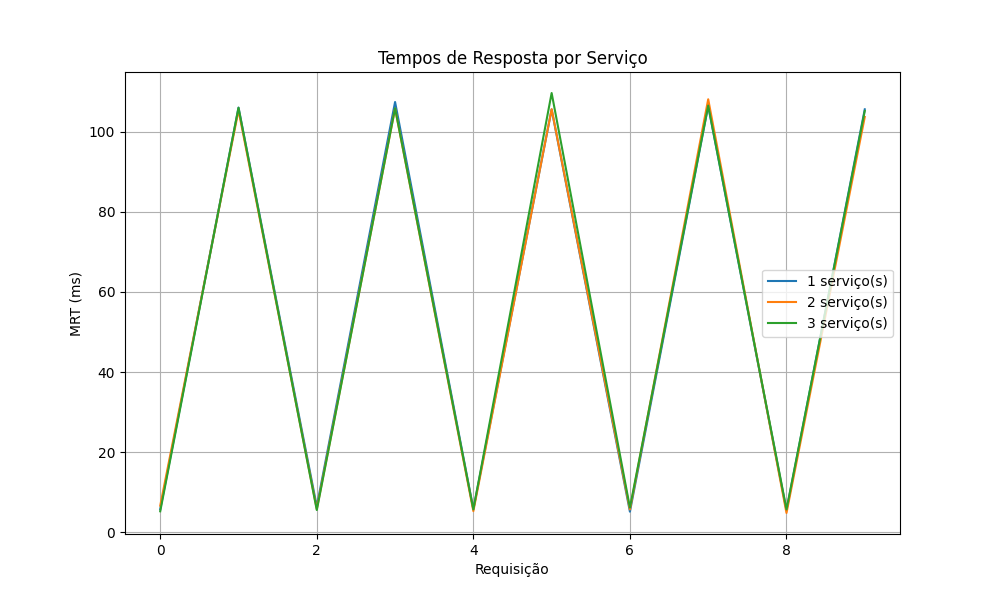
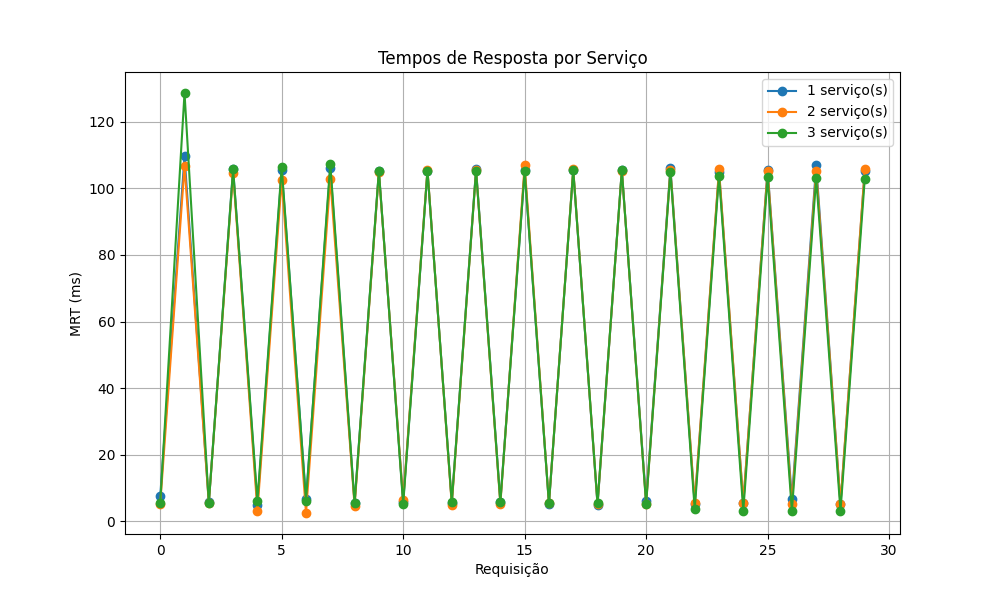
...

diff --git a/pasid-validator/src/service_proxy.py b/pasid-validator/src/service_proxy.py
@@ -6,7 +6,7 @@ from src.abstract_proxy import AbstractProxy
 from src.service_ia import IA
 
 class ServiceProxy(AbstractProxy):
-    def __init__(self, porta_escuta: int, tempo_service_ms: float, tamanho_max_fila: int = 30,  modelo_ai: str = "llama3.2"):
+    def __init__(self, porta_escuta: int, tempo_service_ms: float, tamanho_max_fila: int = 90, modelo_ai: str = "distilbert"):
         super().__init__()  
         self.porta_escuta = porta_escuta
         self.tempo_servico_ms = tempo_service_ms
@@ -15,9 +15,8 @@ class ServiceProxy(AbstractProxy):
         self.servico_ia = IA(modelo_ai=modelo_ai)
 
     def iniciar(self):
-        """Inicia o servidor para escutar conexões de clientes."""
         servidor = socket.socket(socket.AF_INET, socket.SOCK_STREAM)
-        servidor.setsockopt(socket.SOL_SOCKET, socket.SO_REUSEADDR, 1)  # Permite reusar endereço
+        servidor.setsockopt(socket.SOL_SOCKET, socket.SO_REUSEADDR, 1)
         try:
             servidor.bind(('0.0.0.0', self.porta_escuta))
             servidor.listen()
@@ -28,7 +27,7 @@ class ServiceProxy(AbstractProxy):
                 threading.Thread(
                     target=self.tratar_cliente, 
                     args=(socket_cliente,),
-                    daemon=True  # Thread como daemon para encerrar com o programa
+                    daemon=True
                 ).start()
         except Exception as e:
             print(f"Erro no servidor: {e}")
@@ -36,7 +35,6 @@ class ServiceProxy(AbstractProxy):
             servidor.close()
 
     def _extrair_ultimo_timestamp(self, mensagem: str) -> int:
-        """Extrai o último timestamp da mensagem formatada."""
         partes = mensagem.split(';')
         try:
             return int(partes[-2].strip()) if len(partes) >= 2 else 0
@@ -44,11 +42,9 @@ class ServiceProxy(AbstractProxy):
             return 0
 
     def adicionar_timestamp_mensagem_chega(self, mensagem: str) -> str:
-        """Registra o tempo de chegada da mensagem e calcula o tempo desde o último registro."""
         try:
             if not mensagem:
                 return mensagem
-                
             time_now = int(time.time() * 1000)
             ultimo_timestamp = self._extrair_ultimo_timestamp(mensagem)
             diferenca = time_now - ultimo_timestamp if ultimo_timestamp > 0 else 0
@@ -58,11 +54,9 @@ class ServiceProxy(AbstractProxy):
             return mensagem
 
     def adicionar_timestamp_mensagem_sai(self, mensagem: str) -> str:
-        """Registra o tempo de saída da mensagem e calcula o tempo de processamento."""
         try:
             if not mensagem:
                 return mensagem
-                
             time_now = int(time.time() * 1000)
             partes = mensagem.split(';')
             if len(partes) >= 2:
@@ -75,39 +69,38 @@ class ServiceProxy(AbstractProxy):
             return mensagem
 
     def tratar_cliente(self, socket_cliente: socket.socket):
-        """Processa a requisição do cliente e envia a resposta."""
         try:
             dados = socket_cliente.recv(1024).decode()
             if not dados:
                 return
 
             print(f"Mensagem recebida: {dados}")
-            
+
             if dados == "ping":
                 status = "ocupado" if self.fila.full() else "livre"
                 ocupacao = self.fila.qsize() / self.tamanho_max_fila
                 print(f"Status da fila: {status} ({ocupacao:.1%} de ocupação)")
                 socket_cliente.sendall(status.encode())
                 return
-                
+
             if self.fila.full():
                 print("Fila cheia - mensagem descartada")
                 socket_cliente.sendall("ocupado".encode())
                 return
-                
+
             self.fila.put(dados)
-            
-            # Processa a mensagem
+
             dados = self.adicionar_timestamp_mensagem_chega(dados)
-            print(f"Processando mensagem: {dados}")
+            print(f"Processando com IA: {dados}")
 
-            time.sleep(self.tempo_servico_ms / 1000.0)
+            # processa com IA em vez de sleep
+            resposta_ia = self.servico_ia.process(dados)
 
-            dados = self.adicionar_timestamp_mensagem_sai(dados)
-            print(f"Enviando resposta: {dados}")
+            resposta_ia = self.adicionar_timestamp_mensagem_sai(resposta_ia)
+            print(f"Enviando resposta IA: {resposta_ia}")
 
-            socket_cliente.sendall(dados.encode())
-            
+            socket_cliente.sendall(resposta_ia.encode())
+
         except Exception as e:
             print(f"Erro ao tratar cliente: {e}")
         finally:

diff --git a/pasid-validator/src/source.py b/pasid-validator/src/source.py
@@ -19,7 +19,7 @@ class Source(AbstractProxy):
         super().__init__()
         self.etapa_alimentacao_modelo: bool = config.get("etapa_alimentacao_modelo", False)
         self.atraso_chegada: int = config.get("atraso_chegada", 0)  # em ms
-        self.max_mensagens_esperadas: int = config.get("max_mensagens_esperadas", 30)
+        self.max_mensagens_esperadas: int = config.get("max_mensagens_esperadas", 90)
         self.contador_mensagem_atual: int = 0
         self.qtd_servicos: List[int] = config.get("qtd_servicos", [])  # Ex: [1, 2] N de serviços por LB
 
@@ -217,7 +217,7 @@ class Source(AbstractProxy):
         }
 
         # Se você sabe quantas mensagens cada ciclo enviou, use isso para separar:
-        mensagens_por_ciclo = [10, 10, 10]  # Exemplo: 3 ciclos, 10 mensagens cada
+        mensagens_por_ciclo = [30, 30, 30]  # Exemplo: 3 ciclos, 10 mensagens cada
 
         # Verifica se o número de tempos bate com o esperado
         total_esperado = sum(mensagens_por_ciclo)
@@ -264,12 +264,14 @@ class Source(AbstractProxy):
         try:
             self.log(f"Entrou aqui")
             import matplotlib
-            # Força o backend 'Agg' que funciona em containers sem display
-            matplotlib.use('Agg')
+            matplotlib.use('Agg')  # Força o backend 'Agg' que funciona em containers sem display
+            import matplotlib.pyplot as plt
+            import os
+            import json
 
             # Obtém o diretório do arquivo JSON
             output_dir = os.path.dirname(nome_arquivo)
-            
+
             # Verifica se o diretório existe
             if not os.path.exists(output_dir):
                 os.makedirs(output_dir, exist_ok=True)
@@ -282,42 +284,27 @@ class Source(AbstractProxy):
                 self.log("Nenhum dado para gerar gráficos")
                 return
 
-            # Gráfico 1 - MRT por serviço
+            # Gráfico - MRT por serviço (linhas e pontos)
             plt.figure(figsize=(10, 6))
             for ciclo in dados['cycles']:
                 if not ciclo.get('alimentacao', False):
-                    plt.plot(ciclo['tempos_ms'], 
-                            label=f"{ciclo['num_services']} serviço(s)")
-            
+                    plt.plot(
+                        list(range(len(ciclo['tempos_ms']))),
+                        ciclo['tempos_ms'],
+                        marker='o',
+                        label=f"{ciclo['num_services']} serviço(s)"
+                    )
+
             plt.title("Tempos de Resposta por Serviço")
             plt.xlabel("Requisição")
             plt.ylabel("MRT (ms)")
             plt.legend()
             plt.grid(True)
-            
+
             graph1_path = os.path.join(output_dir, "mrt_por_servico.png")
             plt.savefig(graph1_path)
             plt.close()
             self.log(f"Gráfico 1 salvo em {graph1_path}")
-
-            # Gráfico 2 - Evolução temporal
-            plt.figure(figsize=(12, 6))
-            for ciclo in dados['cycles']:
-                if not ciclo.get('alimentacao', False):
-                    mrt_medio = ciclo['mrt_media_ms']
-                    plt.scatter(ciclo['cycle_index'], mrt_medio,
-                            label=f"{ciclo['num_services']} serviço(s)")
-            
-            plt.title("MRT Médio por Ciclo")
-            plt.xlabel("Ciclo")
-            plt.ylabel("MRT Médio (ms)")
-            plt.legend()
-            plt.grid(True)
-            
-            graph2_path = os.path.join(output_dir, "mrt_evolucao.png")
-            plt.savefig(graph2_path)
-            plt.close()
-            self.log(f"Gráfico 2 salvo em {graph2_path}")
 
         except Exception as e:
             self.log(f"Falha ao gerar gráficos: {str(e)}")

diff --git a/pasid-validator/src/service_ia.py b/pasid-validator/src/service_ia.py
@@ -1,65 +1,31 @@
-from ollama import Client
-
+from transformers import pipeline
 
 class IA:
-    def __init__(self, modelo_ai: str = "llama3.2"):
+    def __init__(self, modelo_ai: str = "distilbert"):
         """
-        Inicializa o serviço de IA com os modelos disponíveis
-        
-        Args:
-            modelo_ai: Nome do modelo a ser usado (default: "llama3.2")
+        Inicializa o pipeline de IA local
         """
         self.available_models = {
-            "llama3.2": "llama3.2",
-            "deep-seek": "DeepSeek-R1"
+            "distilbert": "distilbert-base-uncased",
+            "tiny-llama": "TinyLlama/TinyLlama-1.1B-Chat-v1.0",
+            "mistral": "mistralai/Mistral-7B-Instruct-v0.1",
         }
 
         self.set_model(modelo_ai)
-        self.client = Client(host="http://ollama:11434")
 
-    def set_model(self, modelo_ai: str) -> None:
-        """Define o modelo a ser usado"""
+    def set_model(self, modelo_ai: str):
         if modelo_ai not in self.available_models:
-            raise ValueError(f"Modelo não disponível. Opções: {list(self.available_models.keys())}")
-        self.model = self.available_models[modelo_ai]
+            raise ValueError(f"Modelo não suportado. Escolha entre {list(self.available_models.keys())}")
+        model_name = self.available_models[modelo_ai]
 
-    def ask_ollama(self, prompt: str) -> str:
-        """
-        Envia prompt para o modelo via Ollama
-        
-        Args:
-            prompt: Texto de entrada para o modelo
-            
-        Returns:
-            Resposta do modelo
-        """
         try:
-            response = self.client.chat(
-                model=self.model,
-                messages=[{"role": "user", "content": prompt}]
-            )
-            return response['message']['content']
+            self.pipe = pipeline("text-generation", model=model_name)
         except Exception as e:
-            print(f"Erro ao consultar Ollama: {str(e)}")
-            return "Erro ao processar a requisição"
+            print(f"Erro ao carregar modelo: {e}")
+            self.pipe = None
 
     def process(self, prompt: str) -> str:
-        """
-        Método principal para processamento de texto
-        
-        Args:
-            prompt: Texto de entrada
-            
-        Returns:
-            Resposta do modelo
-        """
-        return self.ask_ollama(prompt)
-
-
-if __name__ == "__main__":
-    # Exemplo de uso
-    ia = IA(modelo_ai="llama3.2")
-
-    prompt = "Explique o que é balanceamento de carga em sistemas distribuídos."
-    resposta = ia.process(prompt)
-    print("Resposta Ollama:", resposta)
+        if self.pipe is None:
+            return "Modelo não carregado."
+        result = self.pipe(prompt, max_length=100, do_sample=True)[0]["generated_text"]
+        return result

diff --git a/pasid-validator/main.py b/pasid-validator/main.py
@@ -109,7 +109,7 @@ def configuracao() -> Dict[str, Any]:
         'source_port': 1000,
         'target_ip': 'loadbalance1', 
         'target_port': 2000,         
-        'max_considered_messages_expected': 30, 
+        'max_considered_messages_expected': 90, 
         'arrival_delay': 100,
         'qtd_servicos': [1, 2, 3], 
         'enderecos_load_balancers': 'loadbalance1:2000,loadbalance2:3000' 
